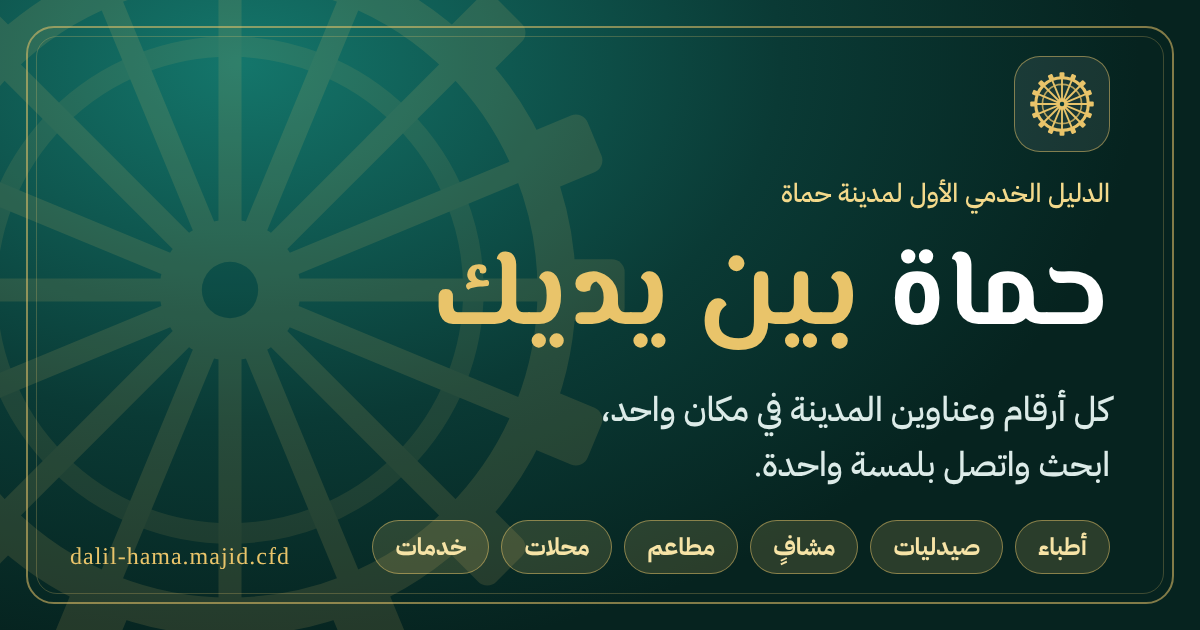
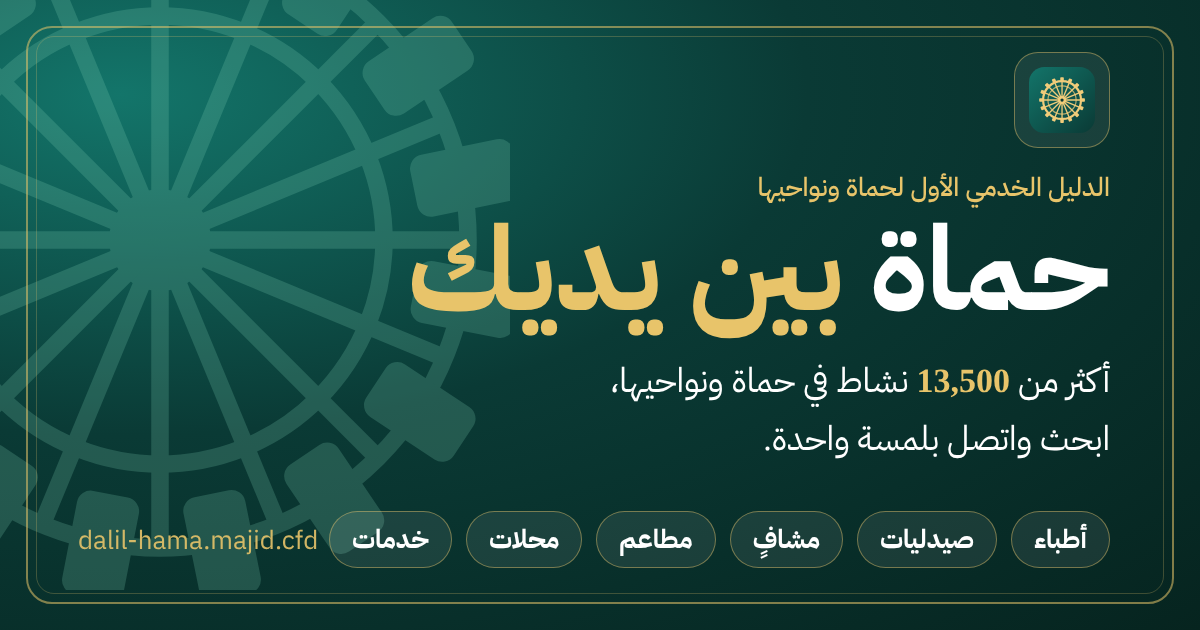
معاينة الرابط: عدد الأنشطة وحماة ونواحيها وصورة og جديدة
Claude-Session: https://claude.ai/code/session_01E1Hj8BJPH4ecA8mAnUffDh

diff --git a/dalil-hama/public/index.html b/dalil-hama/public/index.html
@@ -3,8 +3,8 @@
 <head>
 <meta charset="utf-8">
 <meta name="viewport" content="width=device-width, initial-scale=1, viewport-fit=cover">
-<title>دليل حماة — أرقام وعناوين حماة بين يديك</title>
-<meta name="description" content="دليل حماة: ابحث عن أرقام وعناوين العيادات والصيدليات والمشافي والمطاعم والمحلات والخدمات في مدينة حماة، واتصل أو راسل بلمسة واحدة.">
+<title>دليل حماة «بين يديك» — أرقام وعناوين حماة ونواحيها</title>
+<meta name="description" content="دليل حماة: ابحث عن أرقام وعناوين العيادات والصيدليات والمشافي والمطاعم والمحلات والخدمات في حماة ونواحيها، واتصل أو راسل بلمسة واحدة.">
 <meta name="theme-color" content="#0a3a35">
 <meta name="msvalidate.01" content="C0BDB748E03F83743F8C21C8266FE3C3">
 <meta name="color-scheme" content="light dark">
@@ -20,14 +20,14 @@
 <meta property="og:type" content="website">
 <meta property="og:locale" content="ar_SY">
 <meta property="og:site_name" content="دليل حماة">
-<meta property="og:title" content="دليل حماة — أرقام وعناوين حماة بين يديك">
-<meta property="og:description" content="كل أرقام وعناوين مدينة حماة في مكان واحد: أطباء وصيدليات ومشافٍ ومطاعم ومحلات وخدمات. ابحث واتصل بلمسة واحدة 🌿">
+<meta property="og:title" content="دليل حماة «بين يديك» — أرقام وعناوين حماة ونواحيها">
+<meta property="og:description" content="أكثر من 13,500 نشاط في حماة ونواحيها: أطباء وصيدليات ومشافٍ ومطاعم ومحلات وخدمات. ابحث واتصل بلمسة واحدة 🌿">
 <meta property="og:url" content="https://dalil-hama.majid.cfd/">
-<meta property="og:image" content="https://dalil-hama.majid.cfd/assets/img/og.jpg?v=2">
+<meta property="og:image" content="https://dalil-hama.majid.cfd/assets/img/og.jpg?v=3">
 <meta property="og:image:type" content="image/jpeg">
 <meta property="og:image:width" content="1200">
 <meta property="og:image:height" content="630">
-<meta property="og:image:alt" content="دليل حماة — حماة بين يديك">
+<meta property="og:image:alt" content="دليل حماة «بين يديك» — أكثر من 13,500 نشاط في حماة ونواحيها">
 <meta name="twitter:card" content="summary_large_image">
 <link rel="preload" href="/assets/fonts/plex-arabic-400.woff2" as="font" type="font/woff2" crossorigin>
 <link rel="preload" href="/assets/fonts/plex-arabic-700.woff2" as="font" type="font/woff2" crossorigin>

diff --git a/docs/HANDBOOK.md b/docs/HANDBOOK.md
@@ -204,7 +204,7 @@ sudo dalil-hama-site status
 | v1.12.5 (`release/v1.12.5`) | 15/11/2026 | **قبول الأرقام القصيرة (الرباعية)**: بطاقة في ملاحظتها سطر يبدأ بـ«✅ رقم رباعي» تخرج من «أرقام غير اعتيادية» (العدّاد والقائمة) ولا يُحذَّر منها عند الحفظ. **وأسماء عربية للبحث لـ1,036 نشاطاً باسم لاتيني**: نطق وترجمة آلية في الوسوم (تُعدَّل من الإدارة)، والعدّاد «اسم لاتيني فقط» لا يعدّ من لها وسم عربي. لا migration ولا تغيير في السيرفر. |
 | v1.13.0 (`release/v1.13.0`) | 15/11/2026 | **رسالة التوثيق من الزائر**: رسالة واتساب إلى نشاط غير موثّق صارت رسالة توثيق (رابط الدليل، الاسم والتصنيف والعنوان والموقع، «هل أنتم موافقون على النشر؟») ورابطها `/?l=ID&w=1#p=الرقم` يفتح نافذة بثلاثة خيارات لصاحب الرقم وللرقم وحده: «موافق — انشروا ووثّقوا» (بلاغ `owner_ok` + زر «توثيق» في البلاغات)، «تعديل البيانات» (بلاغ `owner_edit` بما تغيّر)، «الرقم خطأ — احذفوه نهائياً» (`flag_phone` كما كان). النافذة القديمة (حذف/تعديل/إبلاغ) أُزيلت. النشاط الموثّق يعود إلى الرسالة القصيرة. **يتطلب على السيرفر `sudo dalil-hama-site update` ثم `sudo dalil-hama-site install-db`** (migration 0021؛ السحب التلقائي يرفض إصداراً يحتاج migration حتى يُشغَّل `install-db`، و`install-db` قبل `update` لا يطبّق الهجرة الجديدة) |
 | v1.14.0 (`release/v1.14.0`) | 16/11/2026 | **من ضغط زر رابط الرسالة: صاحب الرقم أم المرسل؟** (migration 0022): بعد كل خيار من الثلاثة زر واتساب إلى الإدارة برسالة جاهزة من رقم النشاط ورابط `/admin/#sig?l=ID&p=الرقم&k=ok|edit|rm`؛ فتحه من محادثة الرقم (بعد التحقق من رقمها) يعلّم البلاغ «📱 مؤكَّد من واتساب الرقم» (`admin_confirm_signal`، وينشئه إن لم يصل) ثم يعرض التوثيق أو التعديل أو حذف الرقم. الجهاز الذي أُرسلت منه رسالة التوثيق (`dh:wasent`) لا يرى الخيارات، وإن أصرّ تُعلَّم طلباته «⚠ من جهاز المرسل» (`reports.by_sender`) بلا إخفاء، وتُعدّ في «مهام اليوم» وأعلى «البلاغات»، مع «المصدر نفسه أرسل بلاغات على N بطاقة أخرى» (`reports.src`). «الرقم خطأ» يخفي الرقم **أسبوعاً** ولو كان الوحيد (تختفي البطاقة من `sync`). بعد الدمج: `sudo dalil-hama-site update` ثم `sudo dalil-hama-site install-db` |
-| v1.15.17 (`release/v1.15.17`) | 27/11/2026 | **«نواحي حماة» بدل «ريف حماة»** في واجهة الدليل (بطلب مجيد: كلمة «ريف» قد توحي بدونية): زر الصفحة والتذييل والعناوين والبحث و`حماة ونواحيها`؛ الرابط `/?v=rural` والكود كما هما. بلا migration، `app.js?v=43` و`dh-v72` |
+| v1.15.17 (`release/v1.15.17`) | 27/11/2026 | **«نواحي حماة» بدل «ريف حماة»** في واجهة الدليل (بطلب مجيد: كلمة «ريف» قد توحي بدونية): زر الصفحة والتذييل والعناوين والبحث و`حماة ونواحيها`؛ الرابط `/?v=rural` والكود كما هما. بلا migration، `app.js?v=43` و`dh-v72`؛ ومعاينة الرابط: عنوان ووصف «أكثر من 13,500 نشاط في حماة ونواحيها» وصورة `og.jpg?v=3` الجديدة (مبنية من HTML بخطوط الموقع) |
 | v1.15.16 (`release/v1.15.16`) | 27/11/2026 | **قناة الدليل على واتساب** (بطلب مجيد): `settings.contact.wachannel` وزر «قناة الدليل على واتساب» بارز في التذييل وحقل له في «الإعدادات»؛ وإعلان الترحيب أعلى الصفحة فُعّل من `settings.announcement`. بلا migration، `app.js?v=42` و`admin.js?v=53` و`dh-v71` |
 | v1.15.14 (`release/v1.15.14`) | 23/11/2026 | **رابط UpScrolled للدليل** (بطلب مجيد): `https://upscrolled.com/@dalil_hama` في تذييل الدليل بجانب روابط التواصل، وحقل له في «الإعدادات ← وسائل التواصل مع الدليل». بلا migration |
 | v1.15.13 (`release/v1.15.13`) | 23/11/2026 | **الأرقام كلها بالعربية الغربية 1234567890** بدل الهندية ١٢٣ (بطلب مجيد): الأعداد والتواريخ و«قبل 10 دقائق» في الدليل والإدارة ورسالة التوثيق. بلا migration |
